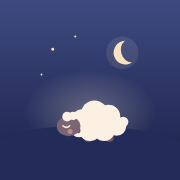
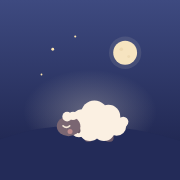
Restore the full moon and keep drawings clear of the words on phones
Each drawing now sits in a frame that exactly fills its row, so a
browser can never stretch it down into the line of text, and the
scene sits a little higher with more space beneath the lamb.

Claude-Session: https://claude.ai/code/session_01EAKTqNLYaTqaS63z5KaeUe

Changed region(s): [[0.6389, 0.2222, 0.7778, 0.3611], [0.6111, 0.25, 0.6389, 0.3333]]

diff --git a/index.html b/index.html
@@ -42,13 +42,12 @@
 <svg class="defs" aria-hidden="true" focusable="false" width="0" height="0">
   <defs>
     <symbol id="moon" viewBox="-44 -44 88 88">
-      <circle cx="-8" r="40" fill="#FFF1D6" opacity=".07"/>
-      <circle cx="-8" r="31" fill="#FFF1D6" opacity=".07"/>
-      <g transform="rotate(-18)">
-        <path d="M8 -27 A28 28 0 1 0 8 27 A30 30 0 0 1 8 -27 Z" fill="#F6E4C0"/>
-        <circle cx="-18" cy="-6" r="2.6" fill="#E6CFA5" opacity=".55"/>
-        <circle cx="-13" cy="12" r="1.8" fill="#E6CFA5" opacity=".5"/>
-      </g>
+      <circle r="43" fill="#FFF1D6" opacity=".09"/>
+      <circle r="36" fill="#FFF1D6" opacity=".08"/>
+      <circle r="29" fill="#F6E4C0"/>
+      <circle cx="-10" cy="-11" r="4.5" fill="#E6CFA5" opacity=".55"/>
+      <circle cx="9" cy="10" r="3.4" fill="#E6CFA5" opacity=".5"/>
+      <circle cx="12" cy="-8" r="2.2" fill="#E6CFA5" opacity=".45"/>
     </symbol>
     <symbol id="star" viewBox="-13 -13 26 26">
       <polygon points="0,-10 2.7,-3.72 9.51,-3.09 4.37,1.42 5.88,8.09 0,4.6 -5.88,8.09 -4.37,1.42 -9.51,-3.09 -2.7,-3.72" fill="#FFE6B0" stroke="#FFE6B0" stroke-width="2.6" stroke-linejoin="round"/>
@@ -101,70 +100,70 @@
       <p class="subtitle">A Counting Lullaby</p>
       <p class="byline">by Vince Lepcha</p>
     </header>
-    <svg class="art" viewBox="0 0 400 300" preserveAspectRatio="xMidYMax meet" role="img" aria-label="A little lamb standing on a hill at sunset, looking around" data-scene="cover"></svg>
+    <div class="art-box"><svg class="art" viewBox="0 0 400 325" preserveAspectRatio="xMidYMax meet" role="img" aria-label="A little lamb standing on a hill at sunset, looking around" data-scene="cover"></svg></div>
     <footer class="foot">© 2026 Vince Lepcha. All rights reserved.</footer>
   </section>
 
   <!-- 1 -->
   <section class="page" id="page-1" data-index="1" aria-label="Page 1">
     <p class="num" aria-hidden="true"><span class="c rise">1</span></p>
-    <svg class="art" viewBox="0 0 400 300" preserveAspectRatio="xMidYMax meet" role="img" aria-label="The lamb yawns, lies down in its straw bed and closes its eyes" data-scene="page-1"></svg>
+    <div class="art-box"><svg class="art" viewBox="0 0 400 325" preserveAspectRatio="xMidYMax meet" role="img" aria-label="The lamb yawns, lies down in its straw bed and closes its eyes" data-scene="page-1"></svg></div>
     <p class="line">One little lamb has gone to bed,</p>
   </section>
 
   <!-- 2 -->
   <section class="page" id="page-2" data-index="2" aria-label="Page 2">
     <p class="num" aria-hidden="true"><span class="c rise">2</span></p>
-    <svg class="art" viewBox="0 0 400 300" preserveAspectRatio="xMidYMax meet" role="img" aria-label="Two little clouds drift in above the lamb, who looks up at them" data-scene="page-2"></svg>
+    <div class="art-box"><svg class="art" viewBox="0 0 400 325" preserveAspectRatio="xMidYMax meet" role="img" aria-label="Two little clouds drift in above the lamb, who looks up at them" data-scene="page-2"></svg></div>
     <p class="line">Two little clouds above your head.</p>
   </section>
 
   <!-- 3 -->
   <section class="page" id="page-3" data-index="3" aria-label="Page 3">
     <p class="num" aria-hidden="true"><span class="c rise">3</span></p>
-    <svg class="art" viewBox="0 0 400 300" preserveAspectRatio="xMidYMax meet" role="img" aria-label="Three stars glide down and settle in the sky while the lamb watches" data-scene="page-3"></svg>
+    <div class="art-box"><svg class="art" viewBox="0 0 400 325" preserveAspectRatio="xMidYMax meet" role="img" aria-label="Three stars glide down and settle in the sky while the lamb watches" data-scene="page-3"></svg></div>
     <p class="line">Three shining stars have found their place,</p>
   </section>
 
   <!-- 4 -->
   <section class="page" id="page-4" data-index="4" aria-label="Page 4">
     <p class="num" aria-hidden="true"><span class="c rise">4</span></p>
-    <svg class="art" viewBox="0 0 400 300" preserveAspectRatio="xMidYMax meet" role="img" aria-label="Four little hearts float up from the sleeping lamb" data-scene="page-4"></svg>
+    <div class="art-box"><svg class="art" viewBox="0 0 400 325" preserveAspectRatio="xMidYMax meet" role="img" aria-label="Four little hearts float up from the sleeping lamb" data-scene="page-4"></svg></div>
     <p class="line">Four soft kisses on your face.</p>
   </section>
 
   <!-- 5 -->
   <section class="page" id="page-5" data-index="5" aria-label="Page 5">
     <p class="num" aria-hidden="true"><span class="c rise">5</span></p>
-    <svg class="art" viewBox="0 0 400 300" preserveAspectRatio="xMidYMax meet" role="img" aria-label="Five soft puffs of breath drift up from the sleeping lamb" data-scene="page-5"></svg>
+    <div class="art-box"><svg class="art" viewBox="0 0 400 325" preserveAspectRatio="xMidYMax meet" role="img" aria-label="Five soft puffs of breath drift up from the sleeping lamb" data-scene="page-5"></svg></div>
     <p class="line">Five slow breaths and in you go,</p>
   </section>
 
   <!-- 6 -->
   <section class="page" id="page-6" data-index="6" aria-label="Page 6">
     <p class="num" aria-hidden="true"><span class="c rise">6</span></p>
-    <svg class="art" viewBox="0 0 400 300" preserveAspectRatio="xMidYMax meet" role="img" aria-label="Six dream bubbles float up from the sleeping lamb, each with a tiny picture" data-scene="page-6"></svg>
+    <div class="art-box"><svg class="art" viewBox="0 0 400 325" preserveAspectRatio="xMidYMax meet" role="img" aria-label="Six dream bubbles float up from the sleeping lamb, each with a tiny picture" data-scene="page-6"></svg></div>
     <p class="line">Six sweet dreams all in a row.</p>
   </section>
 
   <!-- 7 -->
   <section class="page" id="page-7" data-index="7" aria-label="Page 7">
     <p class="num" aria-hidden="true"><span class="c rise">7</span><span class="c rise">8</span></p>
-    <svg class="art" viewBox="0 0 400 300" preserveAspectRatio="xMidYMax meet" role="img" aria-label="The moon rises, fireflies drift and an owl blinks while the lamb sleeps" data-scene="page-7"></svg>
+    <div class="art-box"><svg class="art" viewBox="0 0 400 325" preserveAspectRatio="xMidYMax meet" role="img" aria-label="The moon rises, fireflies drift and an owl blinks while the lamb sleeps" data-scene="page-7"></svg></div>
     <p class="line">Seven, eight, the night is deep,</p>
   </section>
 
   <!-- 8 -->
   <section class="page" id="page-8" data-index="8" aria-label="Page 8">
     <p class="num" aria-hidden="true"><span class="c rise">9</span><span class="c rise">10</span></p>
-    <svg class="art hushable" viewBox="0 0 400 300" preserveAspectRatio="xMidYMax meet" role="img" aria-label="The lamb fast asleep under the moon" data-scene="page-8"></svg>
+    <div class="art-box"><svg class="art hushable" viewBox="0 0 400 325" preserveAspectRatio="xMidYMax meet" role="img" aria-label="The lamb fast asleep under the moon" data-scene="page-8"></svg></div>
     <p class="line">Nine, then ten, and off to sleep.</p>
   </section>
 
   <!-- End -->
   <section class="page end" id="end" data-index="9" aria-label="The end">
     <p class="num" aria-hidden="true"><span class="one c rise" id="one">1</span></p>
-    <svg class="art" viewBox="0 0 400 300" preserveAspectRatio="xMidYMax meet" role="img" aria-label="One soft light glows on the sleeping lamb" data-scene="end"></svg>
+    <div class="art-box"><svg class="art" viewBox="0 0 400 325" preserveAspectRatio="xMidYMax meet" role="img" aria-label="One soft light glows on the sleeping lamb" data-scene="end"></svg></div>
     <p class="line"><span class="l">Sleep, my lamb, the counting’s done.</span> <span class="l">You were always number one.</span></p>
   </section>
 

diff --git a/style.css b/style.css
@@ -122,15 +122,27 @@ body {
 }
 
 /* Words and numbers always sit above the drawing (the hill runs underneath them) */
-.page > :not(.art) { position: relative; z-index: 1; }
+.page > :not(.art-box) { position: relative; z-index: 1; }
 .cover .foot { position: absolute; }
 
+/* The drawing sits in a box that fills its row exactly, so it can never push into the words. */
+.art-box {
+  position: relative;
+  align-self: stretch;
+  justify-self: stretch;
+  min-height: 0;
+  margin-bottom: 4px;
+}
+.art-box > .art {
+  position: absolute;
+  inset: 0;
+  margin: 0 auto;
+}
 .art {
   display: block;
   width: 100%;
   height: 100%;
   max-width: 560px;
-  min-height: 0;
   overflow: visible;
 }
 
@@ -366,13 +378,13 @@ body.is-asleep .btn-back { opacity: .3; transition: opacity 12s ease; }
     row-gap: 6px;
     padding-top: calc(var(--safe-t) + 12px);
   }
-  .art { grid-column: 1; grid-row: 1 / -1; }
+  .art-box { grid-column: 1; grid-row: 1 / -1; }
   .num { grid-column: 2; grid-row: 2; font-size: min(26vh, 120px); }
   .line { grid-column: 2; grid-row: 3; font-size: clamp(20px, 6vh, 32px); align-self: start; }
 
   .cover { grid-template-rows: minmax(0, 1fr) auto minmax(0, 1fr); }
   .cover .titles { grid-column: 2; grid-row: 2; }
-  .cover .art { grid-row: 1 / -1; }
+  .cover .art-box { grid-row: 1 / -1; }
   .title { font-size: min(13vh, 60px); }
   .subtitle { font-size: min(6vh, 26px); }
 
